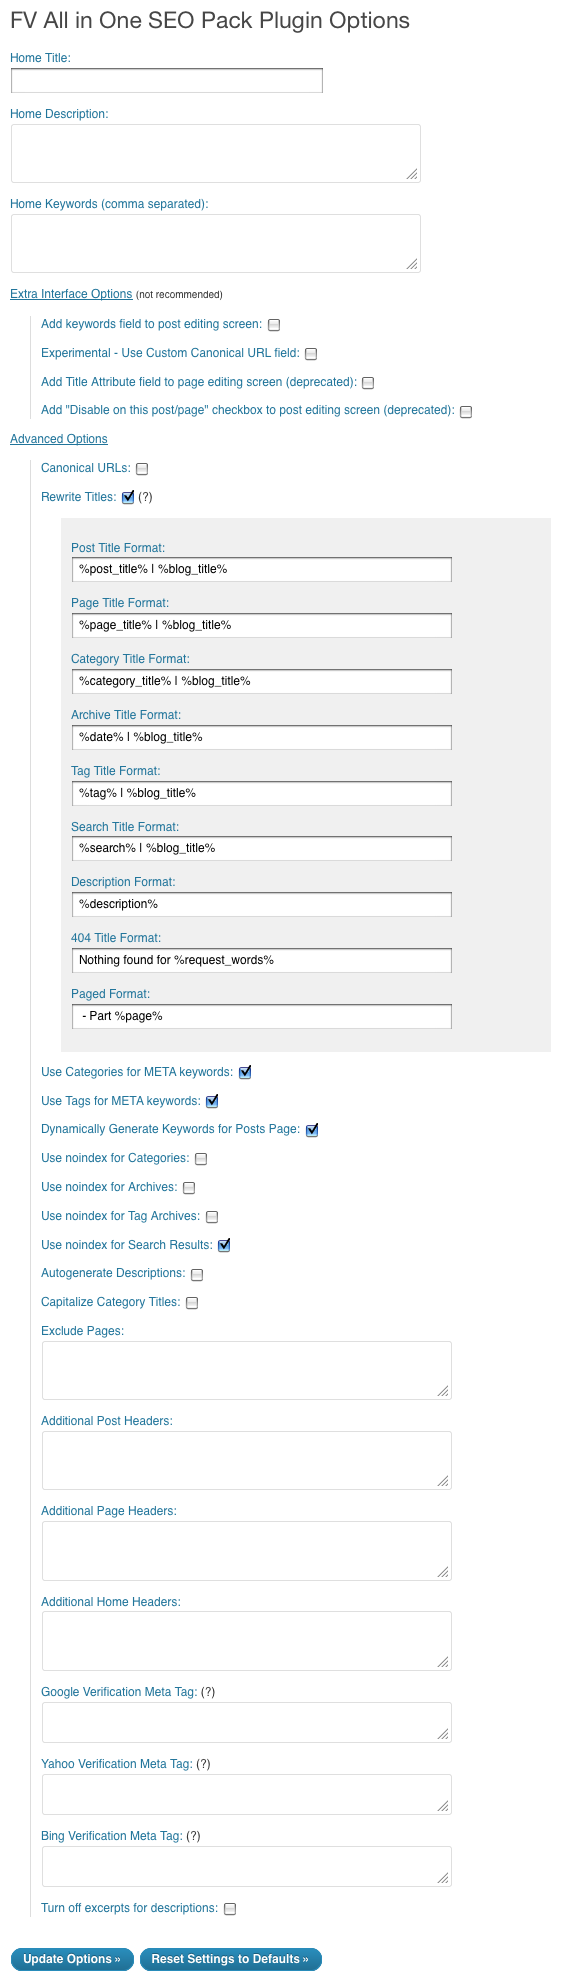
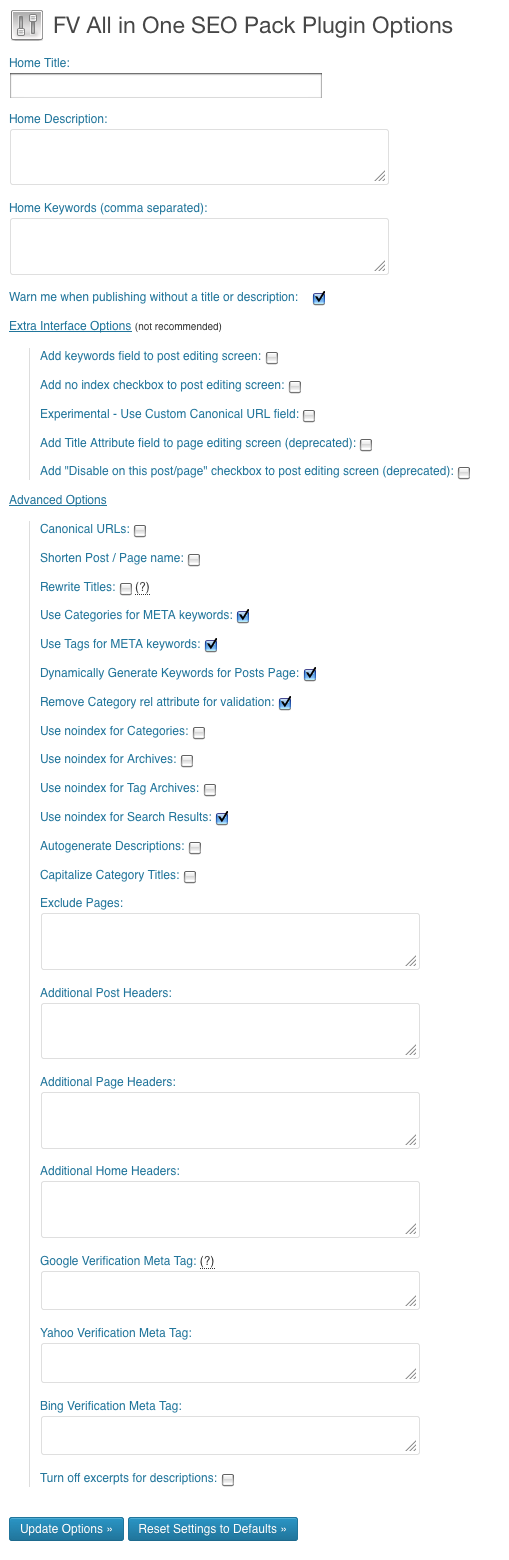
new version - 1.6.19
git-svn-id: https://plugins.svn.wordpress.org/fv-all-in-one-seo-pack/trunk@676845 b8457f37-d9ea-0310-8a92-e5e31aec5664

diff --git a/fv-all-in-one-seo-pack.php b/fv-all-in-one-seo-pack.php
@@ -3,7 +3,7 @@
 Plugin Name: FV Simpler SEO
 Plugin URI: http://foliovision.com/seo-tools/wordpress/plugins/fv-all-in-one-seo-pack
 Description: Simple and effective SEO. Non-invasive, elegant. Ideal for client facing projects. | <a href="options-general.php?page=fv-all-in-one-seo-pack/fv-all-in-one-seo-pack.php">Options configuration panel</a>
-Version: 1.6.18
+Version: 1.6.19
 Author: Foliovision
 Author URI: http://foliovision.com
 */
@@ -832,6 +832,19 @@ class FV_Simpler_SEO_Pack
 			{
 				return;
 			}
+			
+			$post_noindex = get_post_meta($post->ID, '_aioseop_noindex', true);
+			$post_nofollow = get_post_meta($post->ID, '_aioseop_nofollow', true);
+			if( $post_noindex ) {
+				$meta_robots[] = 'noindex';
+			}
+			if( $post_nofollow ) {
+				$meta_robots[] = 'nofollow';
+			}	
+			if( $meta_robots ) {
+				$meta_string .= '<meta name="robots" content="'.implode(',',$meta_robots).'" />'."\n";
+			}
+			
 		}
 
 		if ($this->fvseop_mrt_exclude_this_page())
@@ -1846,14 +1859,18 @@ class FV_Simpler_SEO_Pack
 			$fvseo_disable = isset( $_POST["fvseo_disable"] ) ? $_POST["fvseo_disable"] : NULL;
 			$fvseo_titleatr = isset( $_POST["fvseo_titleatr"] ) ? $_POST["fvseo_titleatr"] : NULL;
 			$fvseo_menulabel = isset( $_POST["fvseo_menulabel"] ) ? $_POST["fvseo_menulabel"] : NULL;
-			$custom_canonical = isset( $_POST["fvseo_custom_canonical"] ) ? $_POST["fvseo_custom_canonical"] : NULL;		
+			$custom_canonical = isset( $_POST["fvseo_custom_canonical"] ) ? $_POST["fvseo_custom_canonical"] : NULL;	
+			$noindex = isset( $_POST["fvseo_noindex"] ) ? true : false;				
+			$nofollow = isset( $_POST["fvseo_nofollow"] ) ? true : false;							
 				
 			delete_post_meta($id, '_aioseop_keywords');
 			delete_post_meta($id, '_aioseop_description');
 			delete_post_meta($id, '_aioseop_title');
 			delete_post_meta($id, '_aioseop_titleatr');
 			delete_post_meta($id, '_aioseop_menulabel');
-			delete_post_meta($id, '_aioseop_custom_canonical');			
+			delete_post_meta($id, '_aioseop_custom_canonical');		
+			delete_post_meta($id, '_aioseop_noindex');		
+			delete_post_meta($id, '_aioseop_nofollow');					
 		
 			if ($this->is_admin())
 			{
@@ -1894,6 +1911,14 @@ class FV_Simpler_SEO_Pack
 			{
 				add_post_meta($id, '_aioseop_custom_canonical', str_replace(" ","%20", $custom_canonical ) );
 			}			
+			if (isset($noindex) && !empty($noindex))
+			{
+				add_post_meta($id, '_aioseop_noindex', true );
+			}		
+			if (isset($nofollow) && !empty($nofollow))
+			{
+				add_post_meta($id, '_aioseop_nofollow', true );
+			}					
 		}
 	}
 
@@ -1945,6 +1970,7 @@ class FV_Simpler_SEO_Pack
 				"aiosp_paged_format"=>' - Part %page%',
 				"aiosp_use_categories"=>1,
 				"aiosp_dynamic_postspage_keywords"=>1,
+        "aiosp_remove_category_rel"=>1,
 				"aiosp_category_noindex"=>0,
 				"aiosp_archive_noindex"=>0,
 				"aiosp_tags_noindex"=>0,
@@ -1996,6 +2022,7 @@ class FV_Simpler_SEO_Pack
 			$fvseop_options['aiosp_paged_format'] = isset( $_POST['fvseo_paged_format'] ) ? $_POST['fvseo_paged_format'] : NULL;
 			$fvseop_options['aiosp_use_categories'] = isset( $_POST['fvseo_category_noindex'] ) ? $_POST['fvseo_category_noindex'] : NULL;
 			$fvseop_options['aiosp_dynamic_postspage_keywords'] = $_POST['fvseo_dynamic_postspage_keywords'];
+      $fvseop_options['aiosp_remove_category_rel'] = $_POST['fvseo_remove_category_rel'];
 			$fvseop_options['aiosp_category_noindex'] = isset( $_POST['fvseo_category_noindex'] ) ? $_POST['fvseo_category_noindex'] : NULL;
 			$fvseop_options['aiosp_archive_noindex'] = isset( $_POST['fvseo_archive_noindex'] ) ? $_POST['fvseo_archive_noindex'] : NULL;
 			$fvseop_options['aiosp_tags_noindex'] = isset( $_POST['fvseo_tags_noindex'] ) ? $_POST['fvseo_tags_noindex'] : NULL;
@@ -2014,6 +2041,7 @@ class FV_Simpler_SEO_Pack
          $fvseop_options['aiosp_search_noindex'] = isset( $_POST['fvseo_search_noindex'] ) ? $_POST['fvseo_search_noindex'] : NULL;
 			$fvseop_options['aiosp_dont_use_excerpt'] = isset( $_POST['fvseo_dont_use_excerpt'] ) ? $_POST['fvseo_dont_use_excerpt'] : NULL;
 			$fvseop_options['aiosp_show_keywords'] = isset( $_POST['fvseo_show_keywords'] ) ? $_POST['fvseo_show_keywords'] : NULL;
+			$fvseop_options['aiosp_show_noindex'] = isset( $_POST['fvseo_show_noindex'] ) ? $_POST['fvseo_show_noindex'] : NULL;			
 			$fvseop_options['aiosp_show_custom_canonical'] = isset( $_POST['fvseo_show_custom_canonical'] ) ? $_POST['fvseo_show_custom_canonical'] : NULL;
 			$fvseop_options['aiosp_show_titleattribute'] = isset( $_POST['fvseo_show_titleattribute'] ) ? $_POST['fvseo_show_titleattribute'] : NULL;
 			$fvseop_options['aiosp_show_disable'] = isset( $_POST['fvseo_show_disable'] ) ? $_POST['fvseo_show_disable'] : NULL;
@@ -2127,6 +2155,17 @@ function toggleVisibility(id)
                                  ?>
                                 </div>
                             </p>
+                            <p>
+                                <a style="cursor:pointer;" title="<?php _e('Click for Help!', 'fv_seo')?>" onclick="toggleVisibility('fvseo_show_noindex_tip');">
+                                <?php _e('Add no index checkbox to post editing screen:', 'fv_seo')?>
+                                </a>
+                                <input type="checkbox" name="fvseo_show_noindex" <?php if ($fvseop_options['aiosp_show_noindex']) echo "checked=\"1\""; ?>/>
+                                <div style="max-width:500px; text-align:left; display:none" id="fvseo_show_noindex_tip">
+                                <?php
+                                _e("Adds a powerful checkbox to post editing screens which let's you exclude the post from search engine indexing. <strong>Warning:</strong> only use if you really know what you are doing.", 'fv_seo');
+                                 ?>
+                                </div>
+                            </p>                            
                             
                             <p>
                                 <a style="cursor:pointer;" title="<?php _e('Click for Help!', 'fv_seo')?>" onclick="toggleVisibility('fvseo_show_custom_canonical_tip');">
@@ -2411,6 +2450,16 @@ function toggleVisibility(id)
                   <?php _e('Check this if you want your keywords on a custom posts page (set it in options->reading) to be dynamically generated from the keywords of the posts showing on that page.  If unchecked, it will use the keywords set in the edit page screen for the posts page.', 'fv_seo') ?>
                 </div>
             </p>
+            
+            <p>
+                <a style="cursor:pointer;" title="<?php _e('Click for Help!', 'fv_seo')?>" onclick="toggleVisibility('fvseo_remove_category_rel_tip');">
+                  <?php _e('Remove Category rel attribute for validation:', 'fv_seo')?>
+                </a>
+                <input type="checkbox" name="fvseo_remove_category_rel" <?php if ($fvseop_options['aiosp_remove_category_rel']) echo 'checked="checked"'; ?>/>
+                <div style="max-width:500px; text-align:left; display:none" id="fvseo_remove_category_rel_tip">
+                  <?php _e('Check this if you want to remove attribute rel from links to categories. Useful for validation.', 'fv_seo') ?>
+                </div>
+            </p>            
 
             <p>
                 <a style="cursor:pointer;" title="<?php _e('Click for Help!', 'fv_seo')?>" onclick="toggleVisibility('fvseo_category_noindex_tip');">
@@ -2593,6 +2642,52 @@ function toggleVisibility(id)
   </div>
   <?php
 	} // options_panel
+	
+	
+	
+	function get_adjacent_post_where( $sql ) {
+		global $post;
+		
+		$affected_post_types = apply_filters( 'fv_get_adjacent_post_where_post_types', array( 'page' ) );
+		
+		if( array_search( $post->post_type, $affected_post_types ) !== FALSE && $ids = $this->get_noindex_posts() ) {
+			$ids = implode( ',', $ids );
+			$sql .= ' AND p.ID NOT IN ('.$ids.')';
+		}
+		//echo '<!--sql '.$sql.'-->';
+		return $sql;
+	}
+	
+	
+	
+	function get_noindex_posts() {
+		global $wpdb;
+		$res = $wpdb->get_col( "SELECT ID FROM $wpdb->posts AS p JOIN $wpdb->postmeta AS m ON p.ID = m.post_id WHERE meta_key = '_aioseop_noindex' AND meta_value = '1' " );
+		//echo '<!--res '.var_export($res, true).'-->';
+		return $res;
+	}
+	
+	
+
+	function pre_get_posts($query) {
+    if ( !$query->is_admin && $query->is_search) {    	
+    		if( $ids = $this->get_noindex_posts() ) {
+        	$query->set('post__not_in', $ids ); // id of page or post
+        }
+    }
+    return $query;
+	}
+	
+	
+	
+	function wp_list_pages_excludes( $exclude_array ) {
+		if( $ids = $this->get_noindex_posts() ) {
+			$exclude_array = array_merge( $exclude_array, $ids );
+		}
+		return $exclude_array;
+	}
+	
+	
 } // end fv_seo class
 
 global $fvseop_options;
@@ -2624,6 +2719,7 @@ function fvseop_mrt_mkarry()
 		"aiosp_paged_format"=>' - Part %page%',
 		"aiosp_use_categories"=>1,
 		"aiosp_dynamic_postspage_keywords"=>1,
+    "aiosp_remove_category_rel"=>1,
 		"aiosp_category_noindex"=>0,
 		"aiosp_archive_noindex"=>0,
 		"aiosp_tags_noindex"=>0,
@@ -2694,7 +2790,7 @@ function fvseop_filter_menu_callback($matches)
 	if (empty($postID))
 		$postID = get_option("page_on_front");
 				       
-  if ($my_post->post_title == $matches[6]) {
+  if ( wptexturize($my_post->post_title) == $matches[6]) {
     $menulabel = stripslashes(get_post_meta($postID, '_aioseop_menulabel', true));
   }    
 	
@@ -2781,6 +2877,8 @@ function fvseo_meta()
 	$fvseo_disable = esc_attr(htmlspecialchars(stripcslashes(get_post_meta($post_id, '_aioseop_disable', true))));
 	$fvseo_titleatr = esc_attr(htmlspecialchars(stripcslashes(get_post_meta($post_id, '_aioseop_titleatr', true))));
 	$fvseo_menulabel = esc_attr(htmlspecialchars(stripcslashes(get_post_meta($post_id, '_aioseop_menulabel', true))));
+	$noindex = esc_attr(htmlspecialchars(stripcslashes(get_post_meta($post_id, '_aioseop_noindex', true))));	
+	$nofollow = esc_attr(htmlspecialchars(stripcslashes(get_post_meta($post_id, '_aioseop_nofollow', true))));	
 	
 	if( $title ) {
 	  $title_preview = 	$title;
@@ -2857,6 +2955,10 @@ function fvseo_timeout() {
   FVSimplerSEO_updateMeta();
   FVSimplerSEO_updateLink();
   window.setTimeout("fvseo_timeout();", 1000);
+}
+function FVSimplerSEO_noindex_toggle() {
+	jQuery('.fvseo-noindex').toggle();
+	return true;
 }
 function FVSimplerSEO_updateLink()
 {
@@ -2958,6 +3060,7 @@ jQuery(document).ready(function($) {
 #fvsimplerseopack th { font-size: 90%; } 
 #fvsimplerseopack .inputcounter { font-size: 85%; padding: 0px; text-align: center; background: white; color: #000;  }
 #fvsimplerseopack .input { width: 99%; }
+#fvsimplerseopack .input[type=checkbox] { width: auto; }
 #fvsimplerseopack small { color: #999; }
 #fvsimplerseopack abbr { color: #999; margin-right: 10px;}
 #fvsimplerseopack small.link {color:#36C;font-size:13px;cursor:pointer;}
@@ -2970,6 +3073,7 @@ jQuery(document).ready(function($) {
   <input value="fvseo_edit" type="hidden" name="fvseo_edit" />
   <input type="hidden" name="nonce-fvseopedit" value="<?php echo esc_attr(wp_create_nonce('edit-fvseopnonce')) ?>" />
 
+			<div class="fvseo-noindex" <?php if( $noindex ) echo 'style="display:none;"'; ?>>
         <?php if (function_exists('qtrans_getSortedLanguages')) { ?>
         <?php
           $languages = qtrans_getSortedLanguages();          
@@ -3019,11 +3123,11 @@ jQuery(document).ready(function($) {
         </p>
         <?php } ?>
         <div>
-            <p><?php _e('SERP Preview:', 'fv_seo') ?> <abbr title="Preview of Search Engine Results Page">(?)</abbr></p>
+            <p><?php _e('SERP Preview:', 'fv_seo') ?> <abbr title="Preview of Search Engine Results Page">(?)</abbr></p>        
             <h2 id="fvseo_title"><a href="<?php the_permalink(); ?>" target="_blank"><?php echo $title_preview; ?></a></h2>
             <p id="fvseo_meta"><?php echo ($description) ? $description : "Fill in your meta description" ?></p>
             <small id="fvseo_href"><?php echo $url; ?></small> - <small class="link">Cached</small> - <small class="link">Similar</small>
-            <br /><br />
+            <br />
         </div>
 
     <?php if ($fvseop_options['aiosp_show_keywords']) : ?>
@@ -3032,6 +3136,7 @@ jQuery(document).ready(function($) {
             <input class="input" value="<?php echo $keywords ?>" type="text" name="fvseo_keywords" />
         </p>    
     <?php endif; ?>
+
     
     <?php if ($fvseop_options['aiosp_show_custom_canonical']) : ?>
         <p>
@@ -3039,6 +3144,13 @@ jQuery(document).ready(function($) {
             <input class="input" value="<?php echo $custom_canonical ?>" type="text" name="fvseo_custom_canonical" />
         </p>    
     <?php endif; ?>    
+    
+    </div><!--	.fvseo-noindex	-->
+		<?php if ( $fvseop_options['aiosp_show_noindex'] || $noindex ) : ?>
+			<div class="fvseo-noindex" <?php if( $noindex ) { echo 'style="display:block;"'; } else { echo 'style="display:none;"'; } ?>>
+				<strong>Post won't be indexed by Search Engines and it won't show up in internal site search.</strong>
+			</div>
+		<?php endif; ?>    
 
 <?php if($post->post_type == 'page') { ?>
     
@@ -3062,6 +3174,17 @@ jQuery(document).ready(function($) {
             <input type="checkbox" name="fvseo_disable" <?php if ($fvseo_disable) echo 'checked="checked"'; ?>/>
         </p>
     <?php endif; ?>
+    
+    
+    <?php if ( $fvseop_options['aiosp_show_noindex'] || $noindex || $nofollow) : ?>
+        <p>
+            <?php _e('Disable post indexing:', 'fv_seo') ?> <abbr title="Only use if you are sure you don't want this post to be indexed in search engines!">(Warning)</abbr><br />
+            <input id="fvseo_noindex" class="input" value="1" <?php if( $noindex ) echo 'checked="checked"'; ?> type="checkbox" name="fvseo_noindex" onclick="FVSimplerSEO_noindex_toggle(); return true" />
+            <label for="fvseo_noindex">Add noindex</label><br />
+            <input id="fvseo_nofollow" class="input" value="1" <?php if( $nofollow ) echo 'checked="checked"'; ?> type="checkbox" name="fvseo_nofollow" />
+            <label for="fvseo_nofollow">Add nofollow</label>
+        </p>    
+    <?php endif; ?>       
     
     <?php if (!function_exists('qtrans_getSortedLanguages')) { ?>
       <script type="text/javascript">
@@ -3090,9 +3213,9 @@ function fvseo_meta_box_add()
    
    global $fvseop_options;
    if ( $fvseop_options['fvseo_publ_warnings'] == 1 ) {
-      add_action('admin_head', 'check_empty_clientside', 1);
+      add_action('admin_head', 'fvseo_check_empty_clientside', 1);
    } else {
-      removetitlechecker();
+      fvseo_removetitlechecker();
    }
 
 if( false === get_option( 'aiosp-shorten-link-install' ) )
@@ -3123,6 +3246,12 @@ add_action('admin_menu', array($fvseo, 'admin_menu'));
 add_filter( 'wp_unique_post_slug', array( $fvseo, 'EditPostSlug' ), 99 );
 add_filter( 'wp_insert_post_data', array( $fvseo, 'SavePostSlug' ), 99, 2 );
 add_filter( 'sanitize_title', array( $fvseo, 'SanitizeTitleForShortening' ), 99, 3 );
+
+add_filter( 'get_previous_post_where', array( $fvseo, 'get_adjacent_post_where' ) );	//	make sure noindex posts don't turn up in the search
+add_filter( 'get_next_post_where', array( $fvseo, 'get_adjacent_post_where' ) );	//	make sure noindex posts don't turn up in the search
+add_filter( 'pre_get_posts', array( $fvseo, 'pre_get_posts' ) );	//	make sure noindex posts don't turn up in the search
+//add_filter( 'wp_list_pages_excludes', array( $fvseo, 'wp_list_pages_excludes' ) );	//	make sure noindex pages don't get into automated wp menus
+
 
 //this function removes final periods from post slugs as such urls don't work with nginx; it only gets applied if the "Slugs with periods" plugin has replaced the original sanitize_title function
 function sanitize_title_no_final_period ($title) {
@@ -3162,7 +3291,7 @@ function replace_title_sanitization() {
 replace_title_sanitization();
 add_action( 'plugins_loaded', 'replace_title_sanitization' );
 
-function check_empty_clientside() {
+function fvseo_check_empty_clientside() {
 ?>
 <script language="javascript" type="text/javascript">
 jQuery(document).ready(function() {
@@ -3219,13 +3348,24 @@ jQuery(document).ready(function() {
 <?php
 }
 
-function removetitlechecker() {
-   if ( has_action( 'admin_head', 'check_empty_clientside' ) ) {
-      remove_action( 'admin_head', 'check_empty_clientside' );
+function fvseo_removetitlechecker() {
+   if ( has_action( 'admin_head', 'fvseo_check_empty_clientside' ) ) {
+      remove_action( 'admin_head', 'fvseo_check_empty_clientside' );
    }
 }
 
 if( is_admin() ){
-   register_deactivation_hook( __FILE__, 'removetitlechecker' );
+   register_deactivation_hook( __FILE__, 'fvseo_removetitlechecker' );
 }
+
+function fvseo_remove_category_list_rel( $output ) {
+    // Remove rel attribute from the category list
+    return str_replace( ' rel="category tag"', '', $output );
+}
+
+if ($fvseop_options['aiosp_remove_category_rel']) {  
+    add_filter( 'wp_list_categories', 'fvseo_remove_category_list_rel' );
+    add_filter( 'the_category', 'fvseo_remove_category_list_rel' );
+}
+
 ?>
